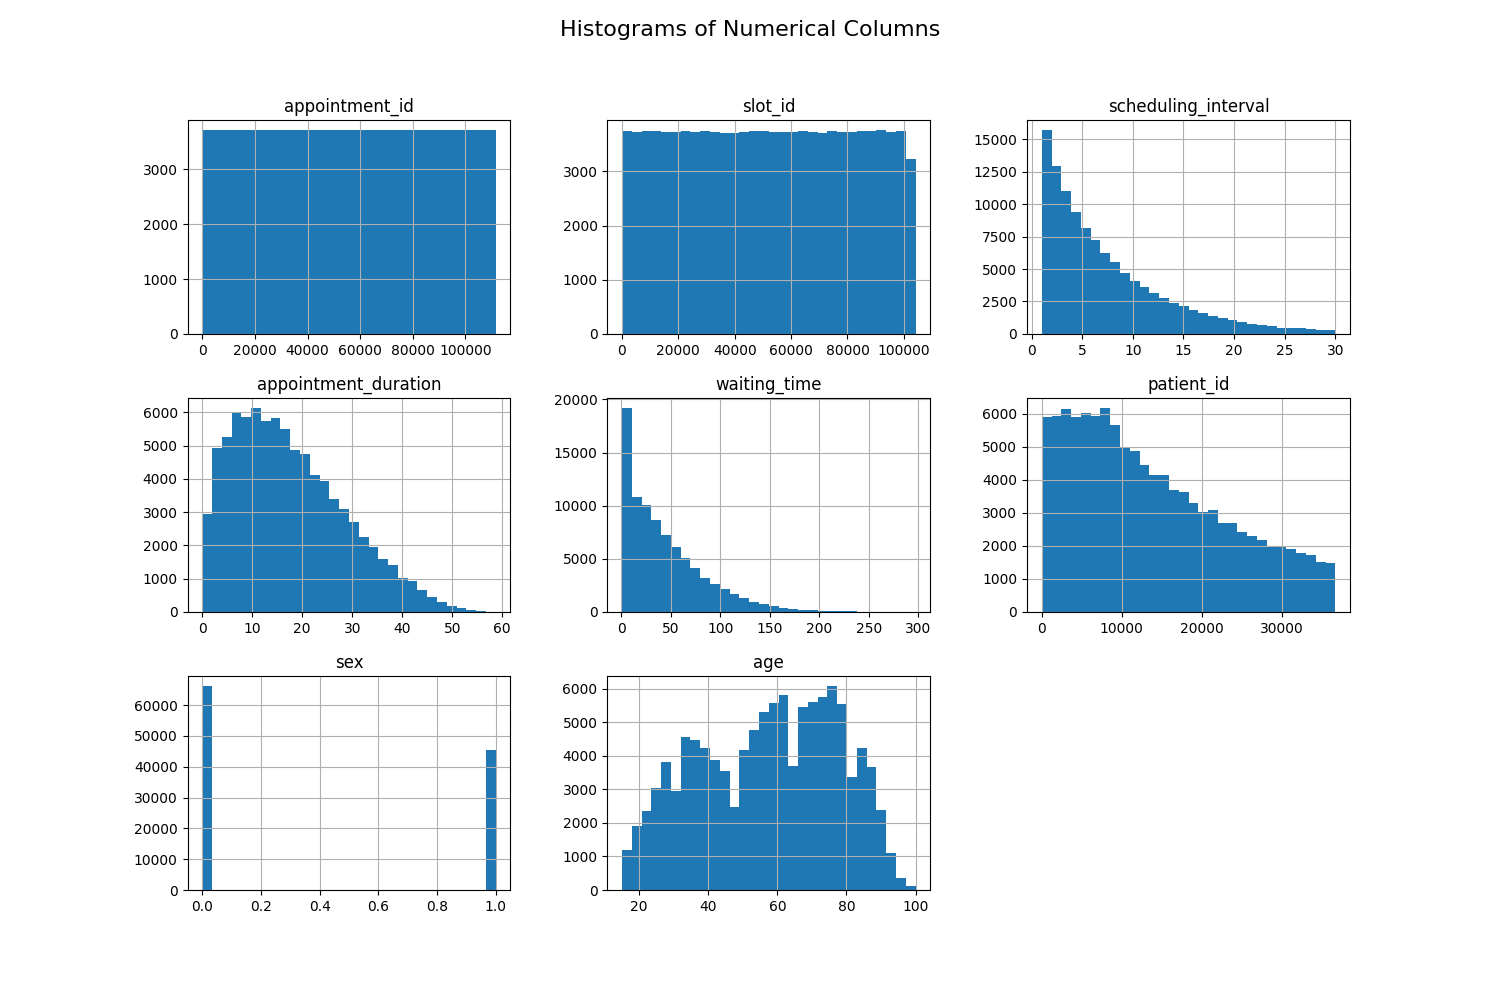
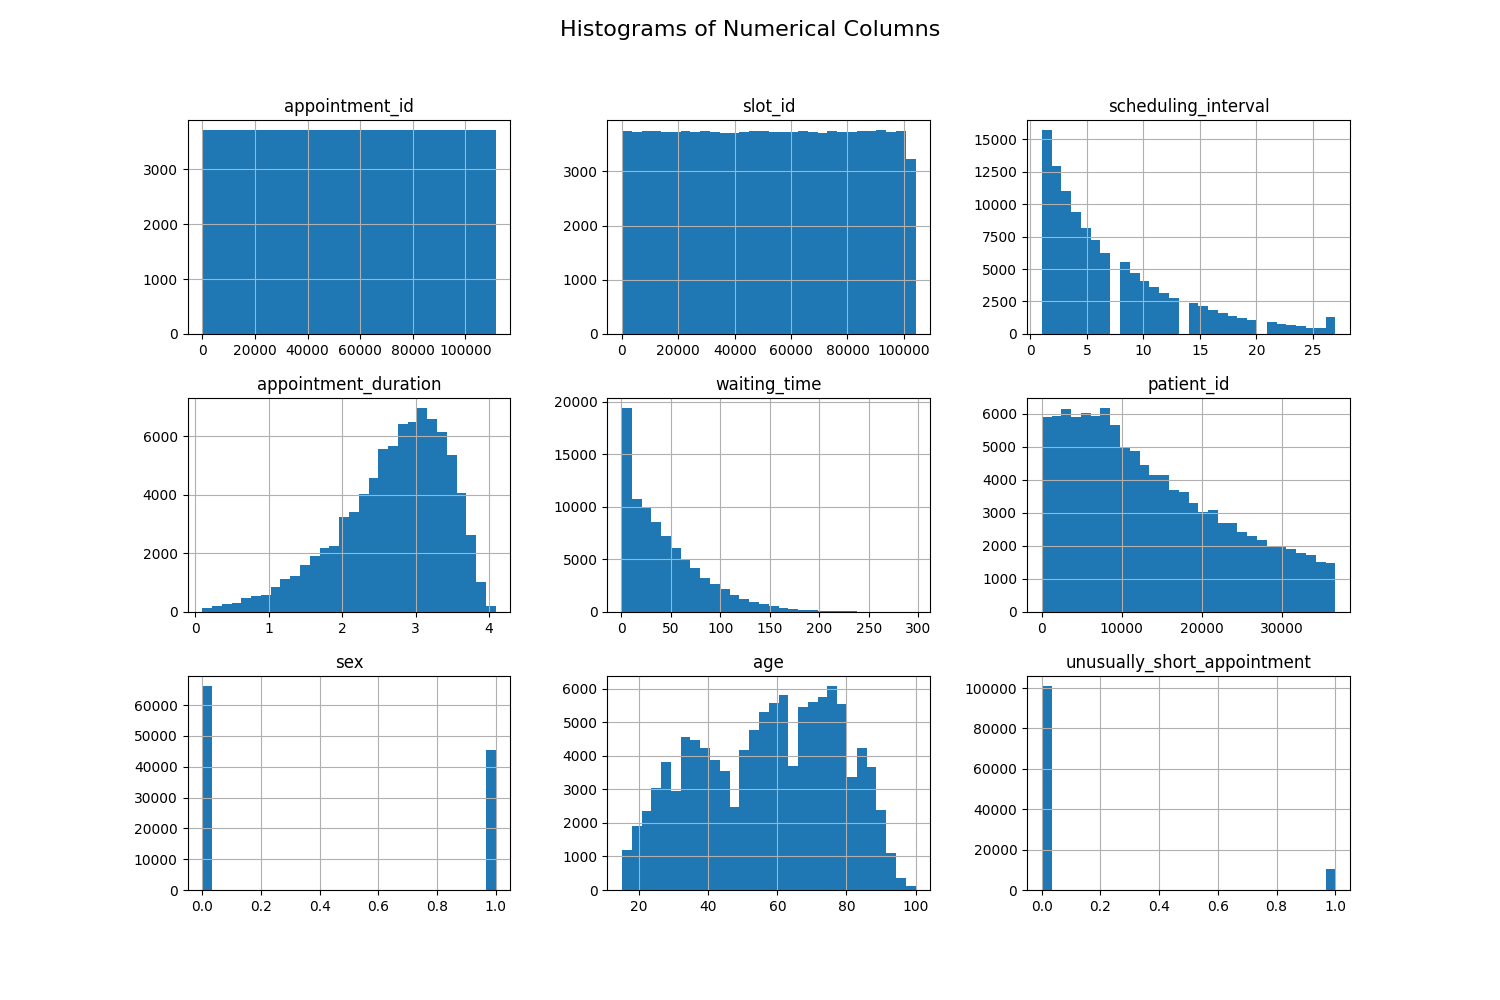
working on getting visualisations for the data preprocessing

diff --git a/preprocessing.py b/preprocessing.py
@@ -15,15 +15,14 @@ print(data.head())
 
 ## CHECK FOR NULL VALUES
 is_null = data.isnull().sum()
-# print(is_null) # some null values - for now we leave them since they're there for unattended/cancelled appointments so they're needed
-## check if attended appointment has null values - so we can drop them
-# print(data[data['status'] == 'No'].isnull().sum())
+print(is_null)
 
 ## CONVERTING CATEGORICAL DATA TO NUMERICAL
 ## first handle the 'sex' column since it's just 1 and 0 (male and female)
 label_encoder = LabelEncoder()
 data['sex'] = label_encoder.fit_transform(data['sex'])
-# print(data.head())
+print(data.head())
+
 ## hot encoding the 'status' column
 data = pd.get_dummies(data, columns=['status'], drop_first=False)
 print(data.head())
@@ -47,22 +46,86 @@ data['scheduling_interval_category'] = pd.cut(data['scheduling_interval'], bins=
 
 print(data.head())
 
-## VISUALISATIONS AFTER HANDLING OUTLIERS
-## BOX PLOTS
-fig, axs = plt.subplots(len(data.select_dtypes(include=[np.number]).columns), 1, dpi=95, figsize=(7, 17))
-fig.suptitle('Boxplots for Outlier Detection After Handling', fontsize=16)
-i = 0
-for col in data.select_dtypes(include=[np.number]).columns:
-    axs[i].boxplot(data[col].dropna(), vert=False)  # Drop NA values for plotting
-    axs[i].set_ylabel(col)
-    i += 1
-plt.tight_layout(rect=[0, 0.03, 1, 0.95])  # Adjust layout to fit title
-plt.show()
+# CHECK FOR DUPLICATES
+data = data.drop_duplicates()
 
-## CORRELATION MATRIX
+# Check for remaining missing values
+print(data.isnull().sum())
+
+# Remove duplicate rows
+data = data.drop_duplicates()
+
+# Descriptive statistics
+print(data.describe())
+
+# Print column names to debug ValueError
+print("Column names:", data.columns)
+
+# Correlation matrix
 numeric_data = data.select_dtypes(include=[np.number])
 corr_matrix = numeric_data.corr()
 plt.figure(figsize=(12, 8))
 sns.heatmap(corr_matrix, annot=True, cmap='coolwarm', linewidths=0.5)
 plt.title('Correlation Matrix', fontsize=16)
 plt.show()
+
+# Histograms
+data.hist(bins=30, figsize=(15, 10))
+plt.suptitle('Histograms of Numerical Columns', fontsize=16)
+plt.show()
+
+# Box plots for numerical data
+numerical_columns = data.select_dtypes(include=[np.number]).columns
+num_numerical = len(numerical_columns)
+num_cols = 3  # Number of columns in the grid
+num_rows = (num_numerical + num_cols - 1) // num_cols  # Calculate the number of rows needed
+
+fig, axs = plt.subplots(num_rows, num_cols, figsize=(15, 5 * num_rows))
+fig.suptitle('Box Plots of Numerical Columns', fontsize=16)
+
+for i, col in enumerate(numerical_columns):
+    row = i // num_cols
+    col_idx = i % num_cols
+    sns.boxplot(x=data[col], ax=axs[row, col_idx])
+    axs[row, col_idx].set_title(f'Box Plot of {col}')
+
+# Remove any empty subplots
+for j in range(i + 1, num_rows * num_cols):
+    fig.delaxes(axs.flatten()[j])
+
+plt.tight_layout(rect=[0, 0.03, 1, 0.95])
+plt.show()
+
+# Bar plots for categorical data
+categorical_columns = ['sex', 'waiting_time_category', 'scheduling_interval_category', 'status_attended', 'status_cancelled', 'status_did not attend', 'status_scheduled', 'status_unknown']
+num_categorical = len(categorical_columns)
+num_cols = 2  # Number of columns in the grid
+num_rows = (num_categorical + num_cols - 1) // num_cols  # Calculate the number of rows needed
+
+fig, axs = plt.subplots(num_rows, num_cols, figsize=(15, 5 * num_rows))
+fig.suptitle('Bar Plots of Categorical Columns', fontsize=16)
+
+for i, col in enumerate(categorical_columns):
+    row = i // num_cols
+    col_idx = i % num_cols
+    sns.countplot(x=col, data=data, ax=axs[row, col_idx])
+    axs[row, col_idx].set_title(f'Bar Plot of {col}')
+
+# Remove any empty subplots
+for j in range(i + 1, num_rows * num_cols):
+    fig.delaxes(axs.flatten()[j])
+
+plt.tight_layout(rect=[0, 0.03, 1, 0.95])
+plt.show()
+
+# Bar chart for appointment status
+status_columns = ['status_attended', 'status_cancelled', 'status_did not attend', 'status_unknown']
+status_counts = data[status_columns].sum()
+
+plt.figure(figsize=(10, 6))
+sns.barplot(x=status_counts.index, y=status_counts.values, palette=['green', 'orange', 'red', 'grey'])
+plt.title('Appointment Status Distribution')
+plt.xlabel('Status')
+plt.ylabel('Count')
+plt.show()
+
